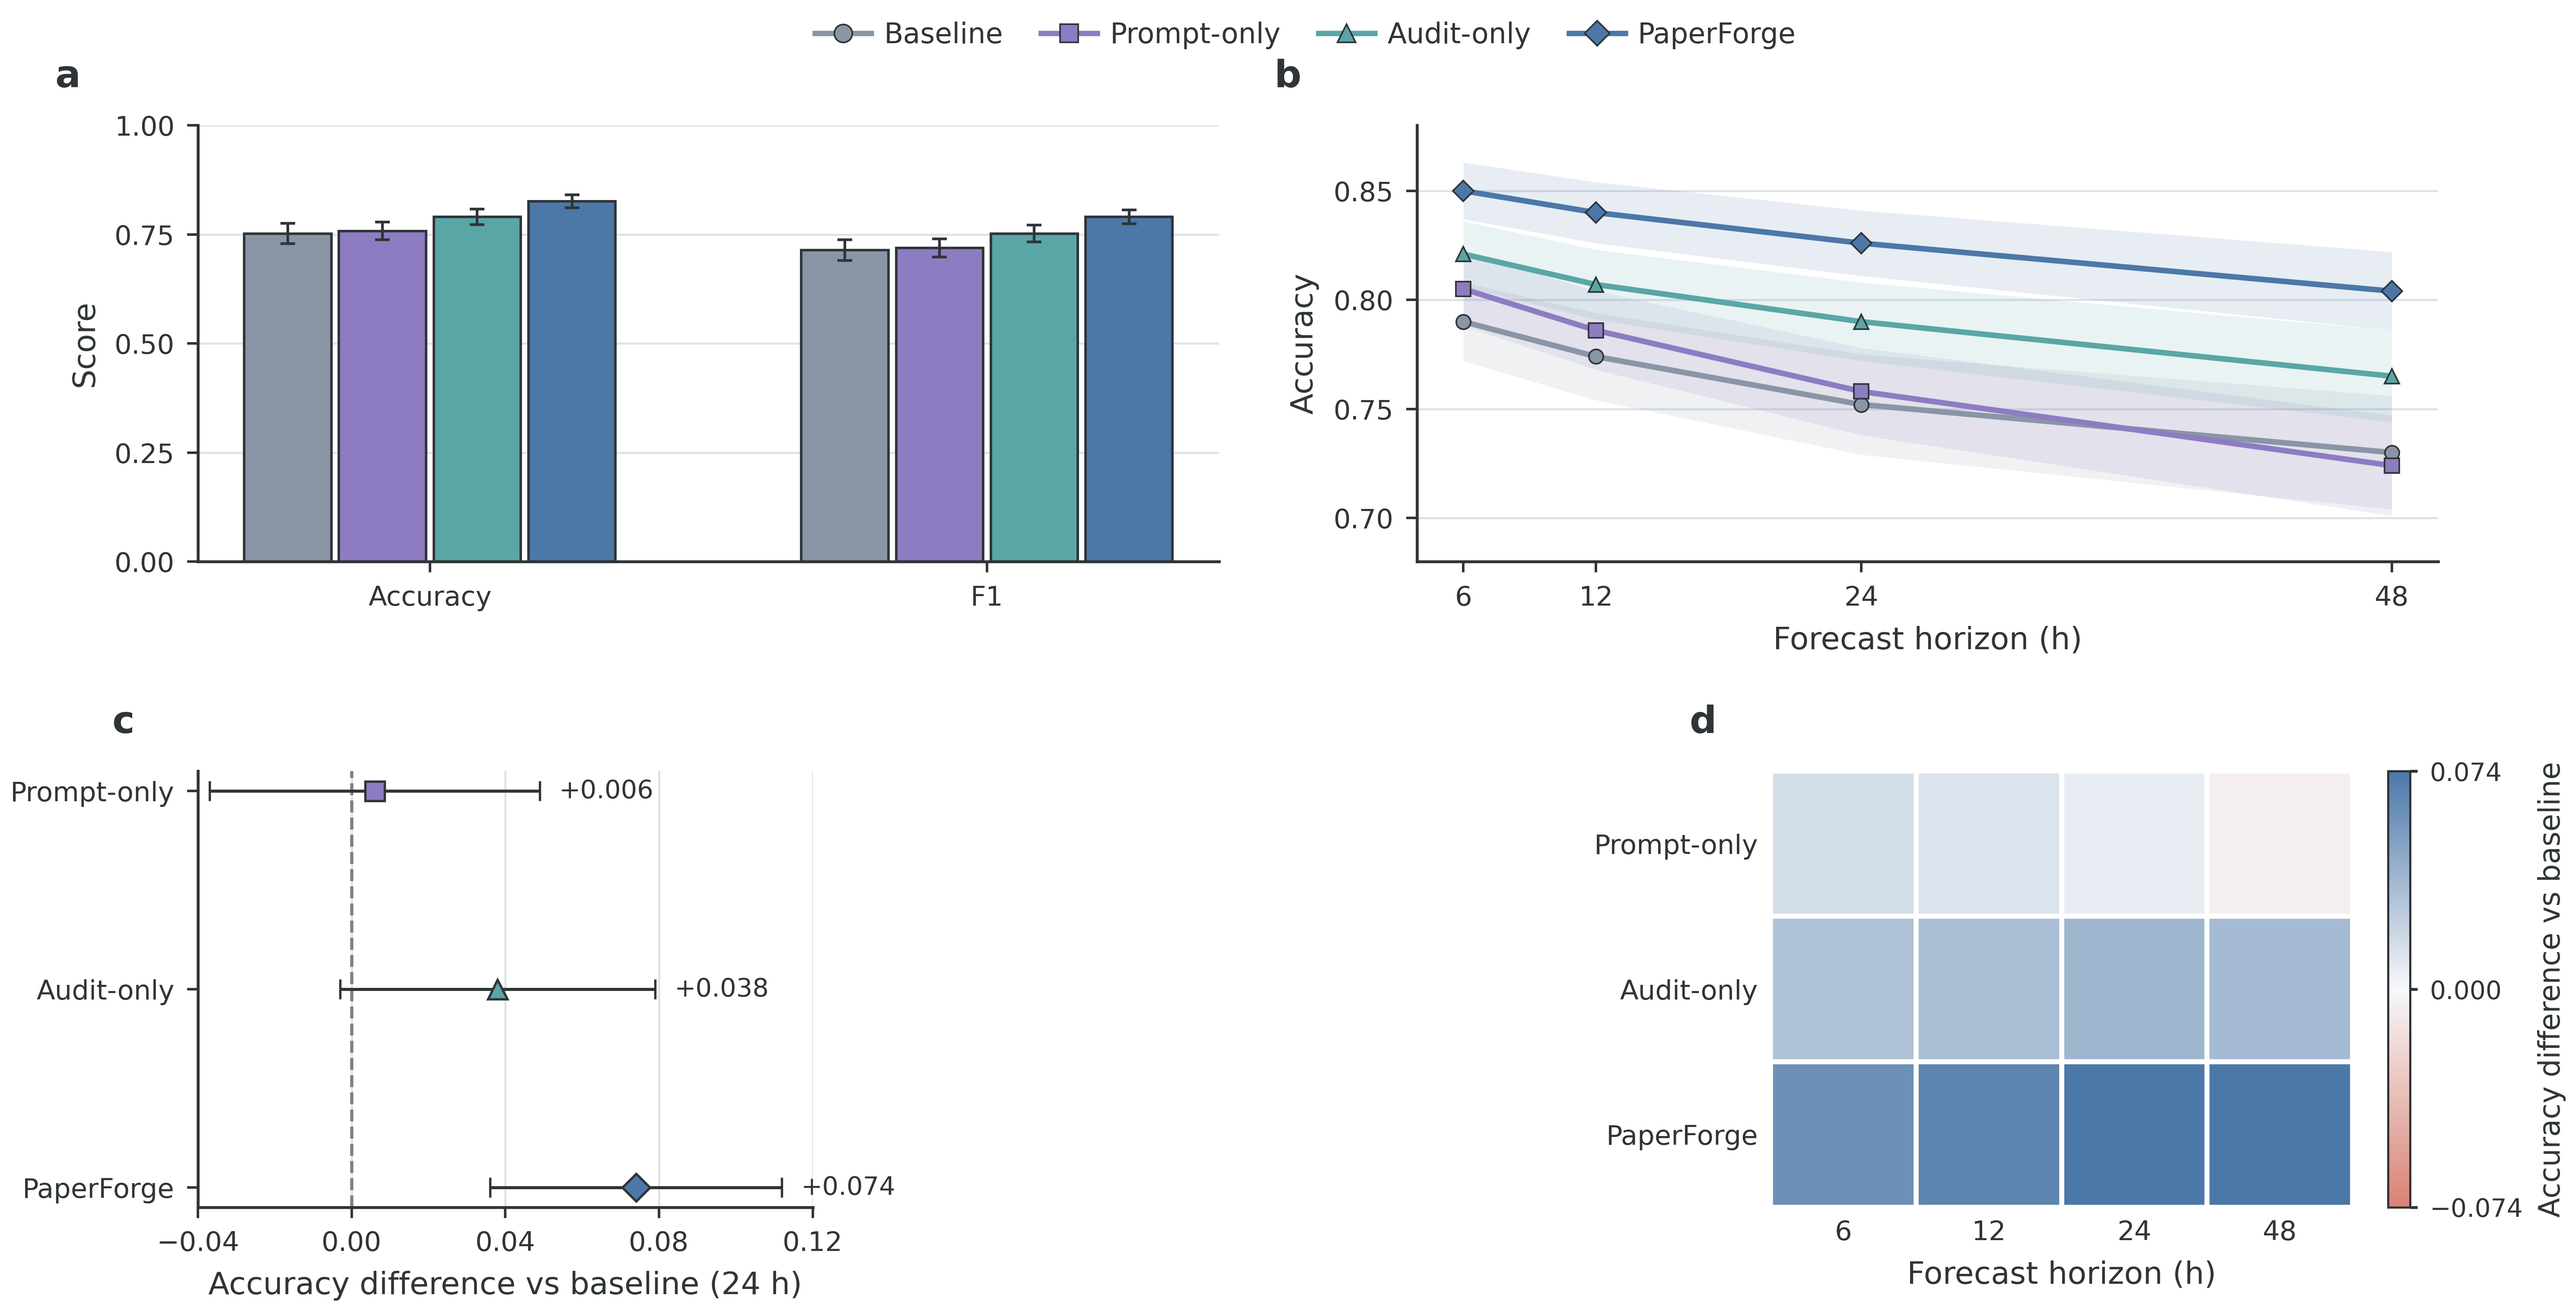
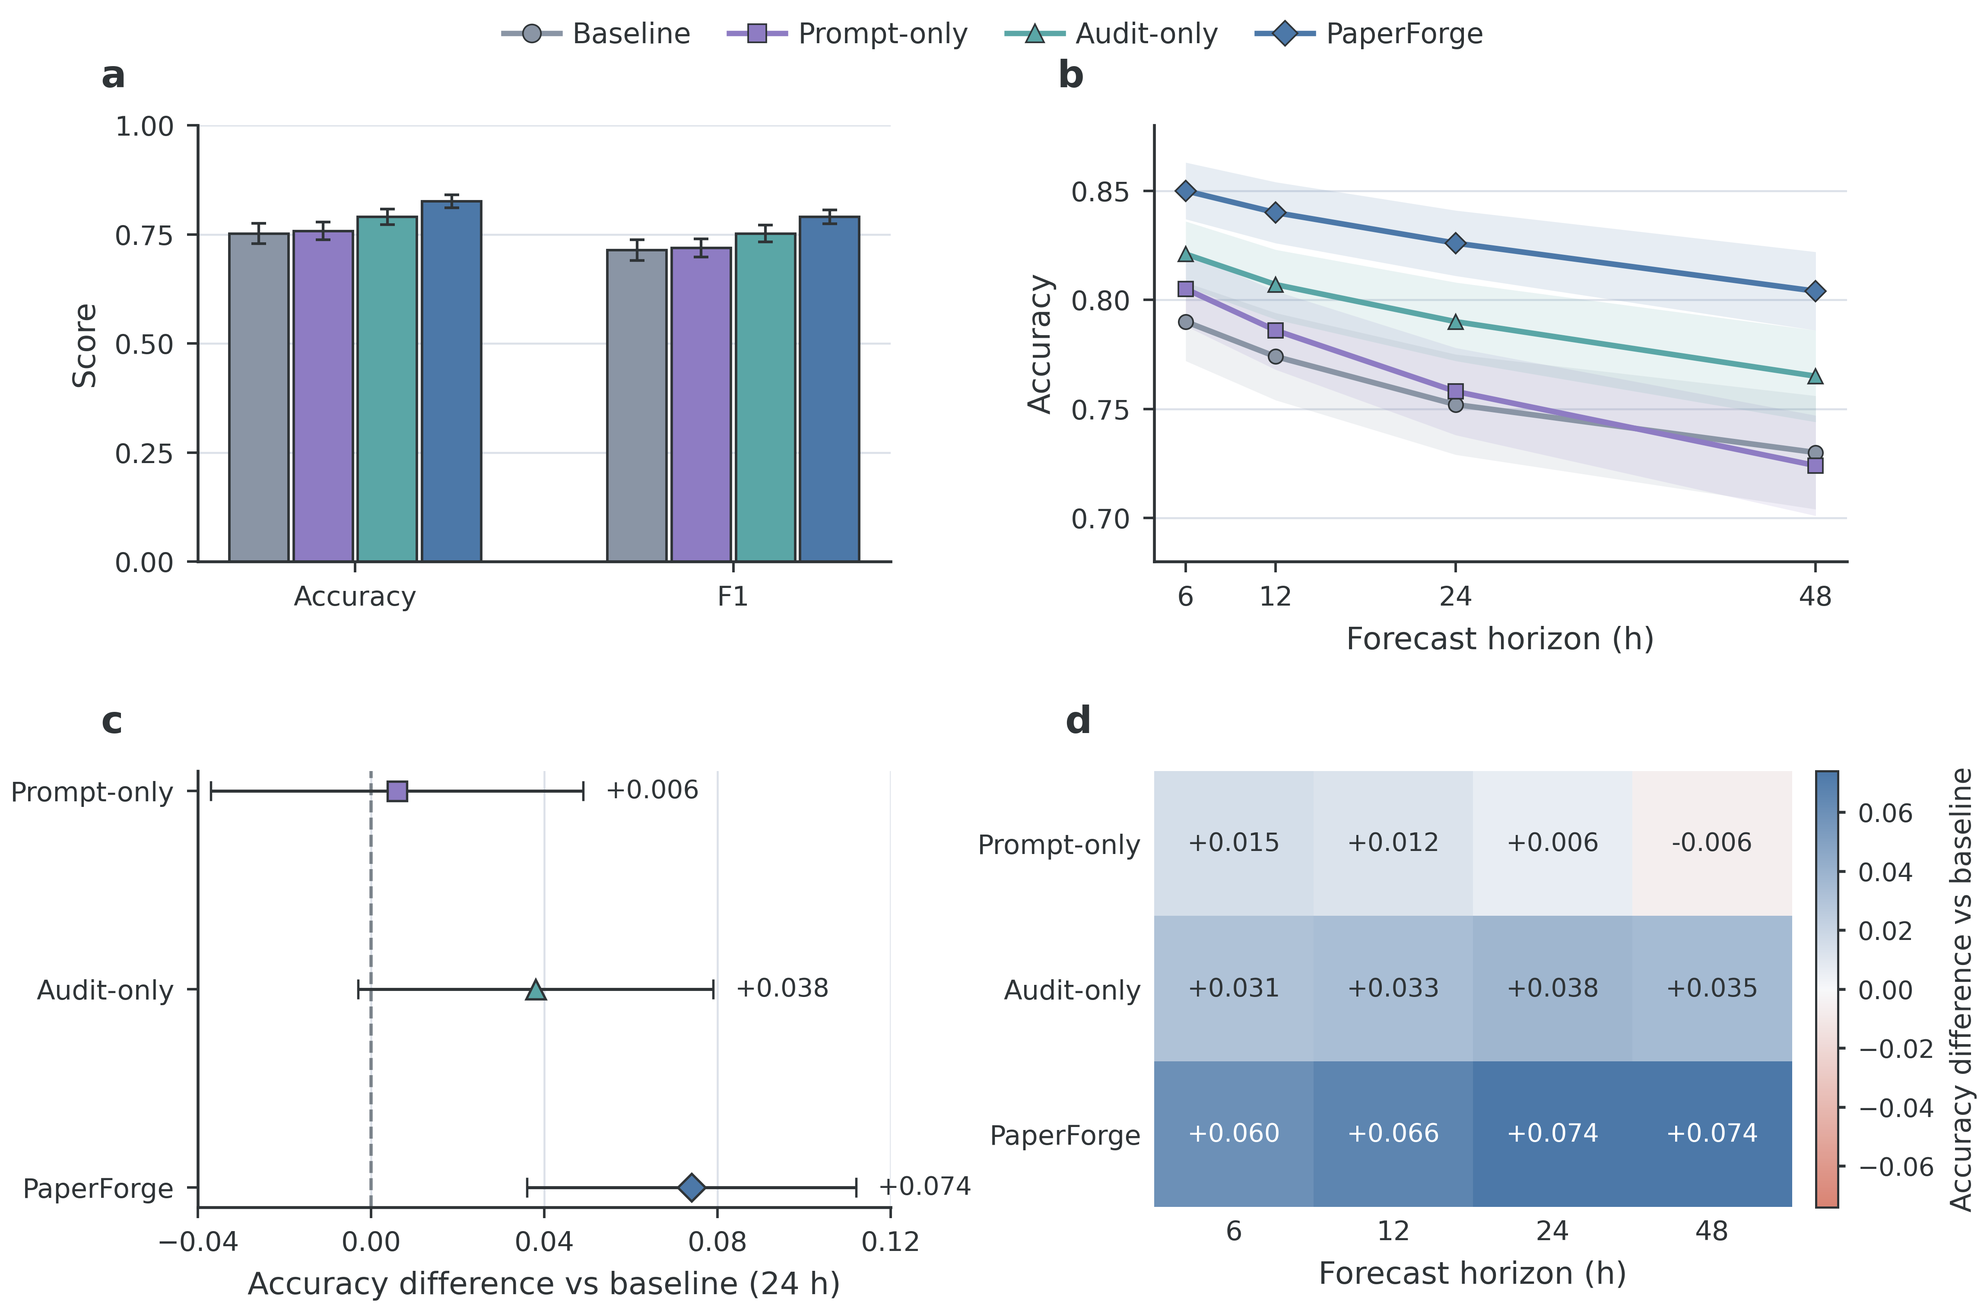
Restore annotated heatmap demo

diff --git a/examples/make_demo_figure.py b/examples/make_demo_figure.py
@@ -295,25 +295,37 @@ def draw_effect_heatmap(
         matrix,
         cmap=cmap,
         norm=TwoSlopeNorm(vmin=-limit, vcenter=0.0, vmax=limit),
-        aspect="equal",
-        interpolation="nearest",
+        aspect="auto",
     )
+
+    for row_index in range(matrix.shape[0]):
+        for col_index in range(matrix.shape[1]):
+            value = matrix[row_index, col_index]
+            text_color = (
+                PALETTE["background"]
+                if abs(value) > limit * 0.62
+                else PALETTE["text"]
+            )
+            ax.text(
+                col_index,
+                row_index,
+                f"{value:+.3f}",
+                ha="center",
+                va="center",
+                fontsize=7.0,
+                color=text_color,
+            )
 
     add_panel_label(ax, "d")
     ax.set_xlabel("Forecast horizon (h)")
     ax.set_xticks(np.arange(len(horizons)), horizons)
     ax.set_yticks(np.arange(len(methods)), methods)
     ax.tick_params(length=0)
-    ax.set_xticks(np.arange(-0.5, len(horizons), 1), minor=True)
-    ax.set_yticks(np.arange(-0.5, len(methods), 1), minor=True)
-    ax.grid(which="minor", color=PALETTE["background"], linewidth=1.4)
-    ax.tick_params(which="minor", bottom=False, left=False)
     for spine in ax.spines.values():
         spine.set_visible(False)
 
-    colorbar = ax.figure.colorbar(image, ax=ax, fraction=0.035, pad=0.025)
-    colorbar.set_label("Accuracy difference vs baseline", fontsize=8.0)
-    colorbar.set_ticks([-limit, 0.0, limit])
+    colorbar = ax.figure.colorbar(image, ax=ax, fraction=0.045, pad=0.035)
+    colorbar.set_label("Accuracy difference vs baseline", fontsize=7.8)
     colorbar.ax.tick_params(labelsize=7.0, length=2)
     colorbar.outline.set_linewidth(0.6)
     return matrix
@@ -324,26 +336,16 @@ def main() -> int:
     horizons = sorted({horizon for _, horizon in indexed})
     apply_paper_style()
 
-    fig = plt.figure(figsize=(9.6, 5.25))
-    grid = fig.add_gridspec(
+    fig, axes = plt.subplots(
         2,
-        6,
-        left=0.075,
-        right=0.975,
-        bottom=0.105,
-        top=0.90,
-        wspace=0.95,
-        hspace=0.48,
+        2,
+        figsize=(7.4, 5.25),
+        gridspec_kw={"wspace": 0.38, "hspace": 0.48},
     )
-    ax_bars = fig.add_subplot(grid[0, 0:3])
-    ax_lines = fig.add_subplot(grid[0, 3:6])
-    ax_forest = fig.add_subplot(grid[1, 0:2])
-    ax_heatmap = fig.add_subplot(grid[1, 2:6])
-
-    draw_grouped_bars(ax_bars, indexed, horizon=24)
-    draw_horizon_lines(ax_lines, indexed, horizons)
-    draw_forest(ax_forest, indexed, horizon=24)
-    draw_effect_heatmap(ax_heatmap, indexed, horizons)
+    draw_grouped_bars(axes[0, 0], indexed, horizon=24)
+    draw_horizon_lines(axes[0, 1], indexed, horizons)
+    draw_forest(axes[1, 0], indexed, horizon=24)
+    draw_effect_heatmap(axes[1, 1], indexed, horizons)
 
     handles = [
         Line2D(
@@ -368,6 +370,7 @@ def main() -> int:
         handletextpad=0.45,
         columnspacing=1.35,
     )
+    fig.subplots_adjust(left=0.105, right=0.965, bottom=0.105, top=0.90)
     fig.savefig(OUT, bbox_inches="tight", pad_inches=0.04)
     print(OUT)
     return 0

diff --git a/skills/paperforge-delivery/references/figure-color-chart-contract.md b/skills/paperforge-delivery/references/figure-color-chart-contract.md
@@ -242,10 +242,11 @@ is the evidence.
 - Label axes and colorbar units.
 - Use a neutral missing-data token or hatch.
 - Use square cells for conceptually square matrices.
-- Do not overlay numeric values inside heatmap cells by default. Keep the
-  heatmap as the visual pattern view and place exact values in a manuscript or
-  supplement three-line table with matching row and column order. Do not render
-  that table as another figure panel.
+- For a small matrix, show concise in-cell values when they remain legible at
+  final publication size. Switch annotation text between dark and white for
+  contrast. For a dense matrix, omit annotations and place exact values in a
+  manuscript or supplement three-line table. Never render that table as
+  another figure panel.
 - Do not use method identity colors as a heatmap scale.
 - Use a sequential scale for confusion counts/proportions unless displaying
   signed residuals.

diff --git a/examples/README.md b/examples/README.md
@@ -11,7 +11,6 @@ python examples/make_demo_figure.py
 The script reads illustrative synthetic values from `demo_results.csv` and
 writes `demo_figure.png`, a four-panel example of the PaperForge visual
 contract: zero-based grouped bars, horizon trends with 95% confidence bands, a
-forest comparison against the baseline, a signed-effect heatmap without
-in-cell numbers. Exact values belong in a manuscript or supplement three-line
-table, not a plotted table panel. Method colors remain fixed, uncertainty uses
+forest comparison against the baseline, and a signed-effect heatmap with
+concise in-cell values. Method colors remain fixed, uncertainty uses
 neutral/dark marks, and paper panels carry no plot titles.
